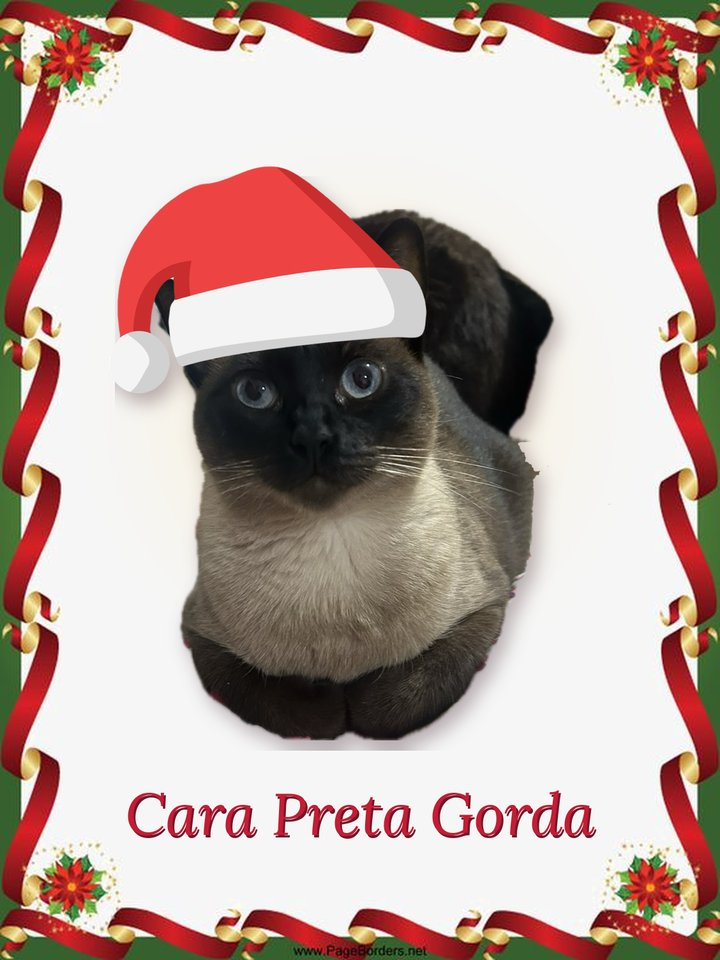
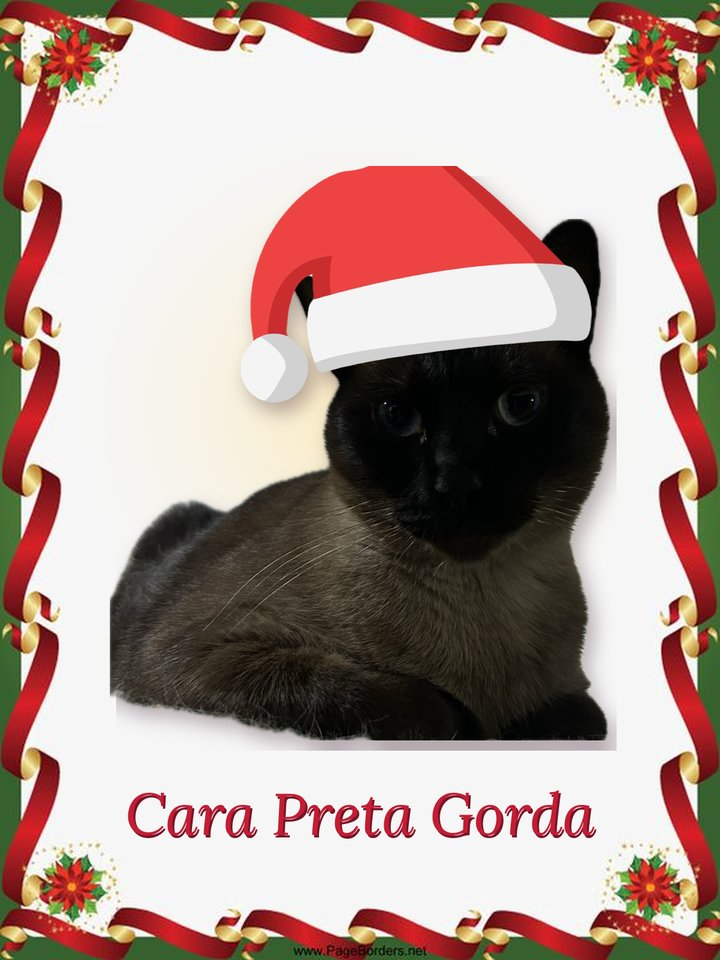
Pets: nova foto da Cara Preta Gorda e Dora
Claude-Session: https://claude.ai/code/session_01RjTzRzo1xRYSP8E1KX9oHZ

diff --git a/index.html b/index.html
@@ -708,7 +708,7 @@ drawOrns();
 
 /* pets */
 (function () {
-  const PETS = [["bitoca", "Bitoca"], ["bonitinha", "Bonitinha"], ["cara-preta-gorda", "Cara Preta Gorda"], ["cara-preta-mae", "Cara Preta Mae"], ["catarina", "Catarina"], ["fofo", "Fofo"], ["fred", "Fred"], ["google", "Google"], ["juca", "Juca"], ["juma", "Juma"], ["lindeza", "Lindeza"], ["maia", "Maia"], ["negrito", "Negrito"], ["panda", "Panda"]];
+  const PETS = [["bitoca", "Bitoca"], ["bonitinha", "Bonitinha"], ["cara-preta-gorda", "Cara Preta Gorda"], ["cara-preta-mae", "Cara Preta Mae"], ["catarina", "Catarina"], ["dora", "Dora"], ["fofo", "Fofo"], ["fred", "Fred"], ["google", "Google"], ["juca", "Juca"], ["juma", "Juma"], ["lindeza", "Lindeza"], ["maia", "Maia"], ["negrito", "Negrito"], ["panda", "Panda"]];
   const parade = document.getElementById('parade'), track = document.getElementById('track');
   const all = PETS.concat(PETS);
   track.innerHTML = all.map(([s, n], i) => `<img src="img/pets/${s}.jpg" alt="${i < PETS.length ? n : ''}" loading="lazy">`).join('');
